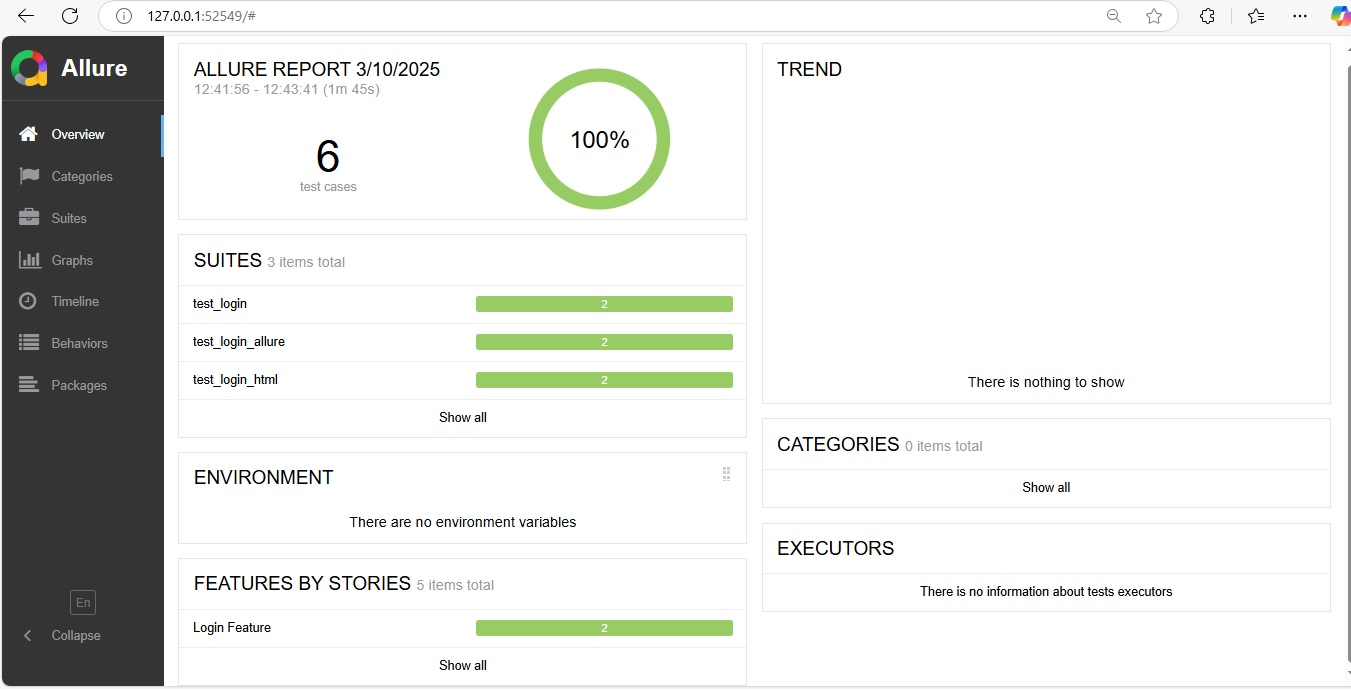
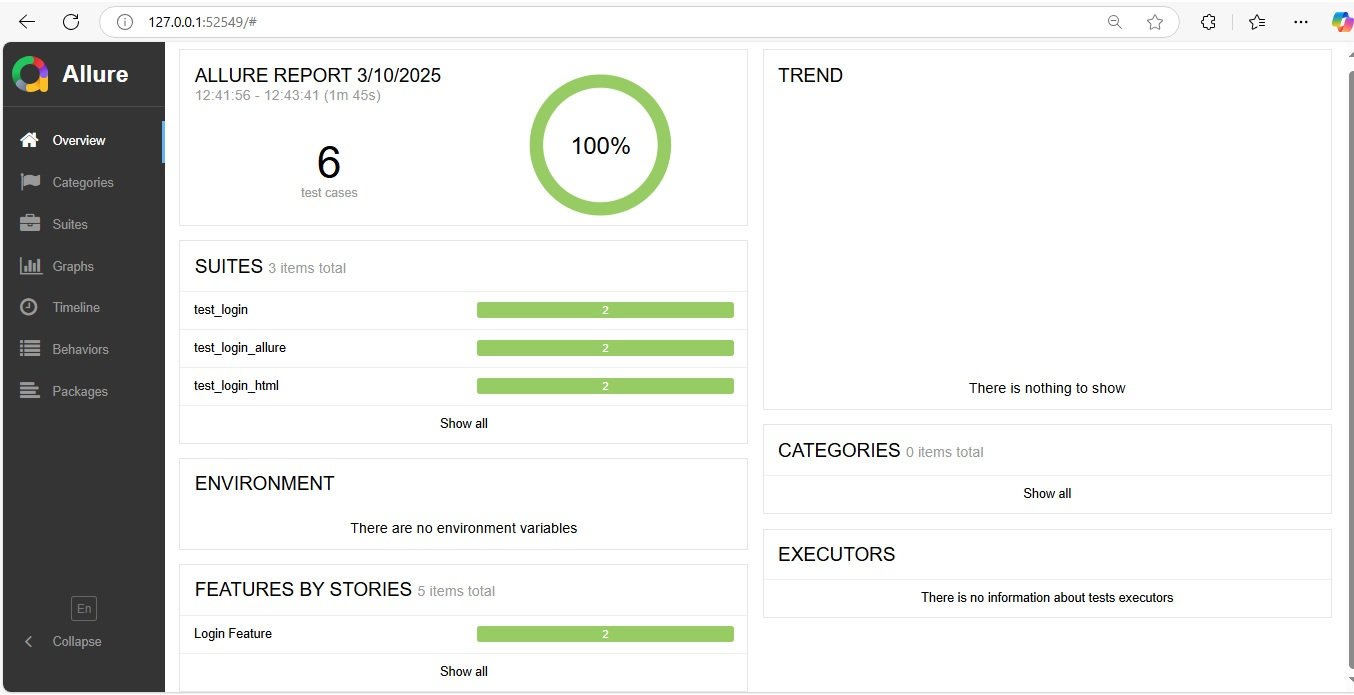
update readme

diff --git a/README.md b/README.md
@@ -2,5 +2,5 @@
 <img src="reports/test_login.jpg" alt="Hasil HTML Test Runner">
 <br>
 <p>Hasil dari Visualisasi Allure pada Automation Testing Login</p>
-<img src="reports/test_login.png" alt="Hasil Allure">
+<img src="reports/test_login_allure.jpg" alt="Hasil Allure">
 
